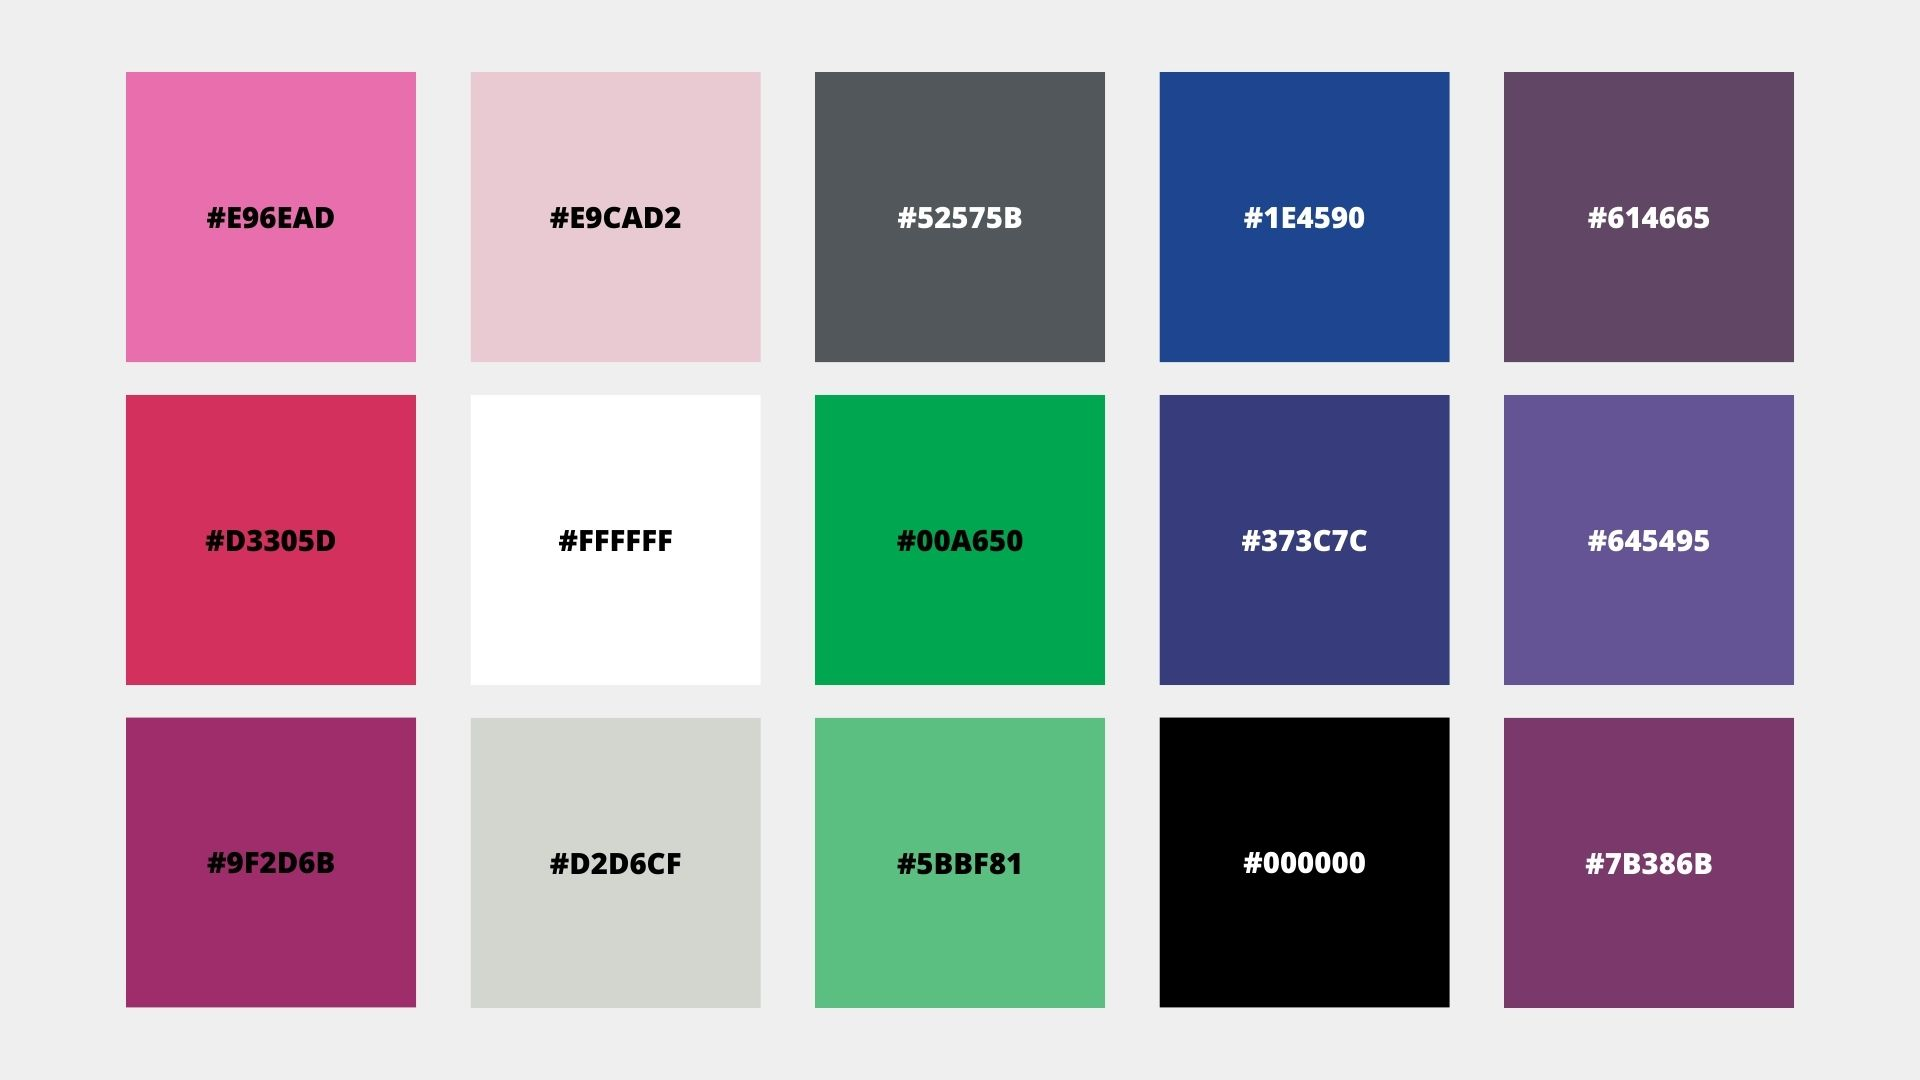
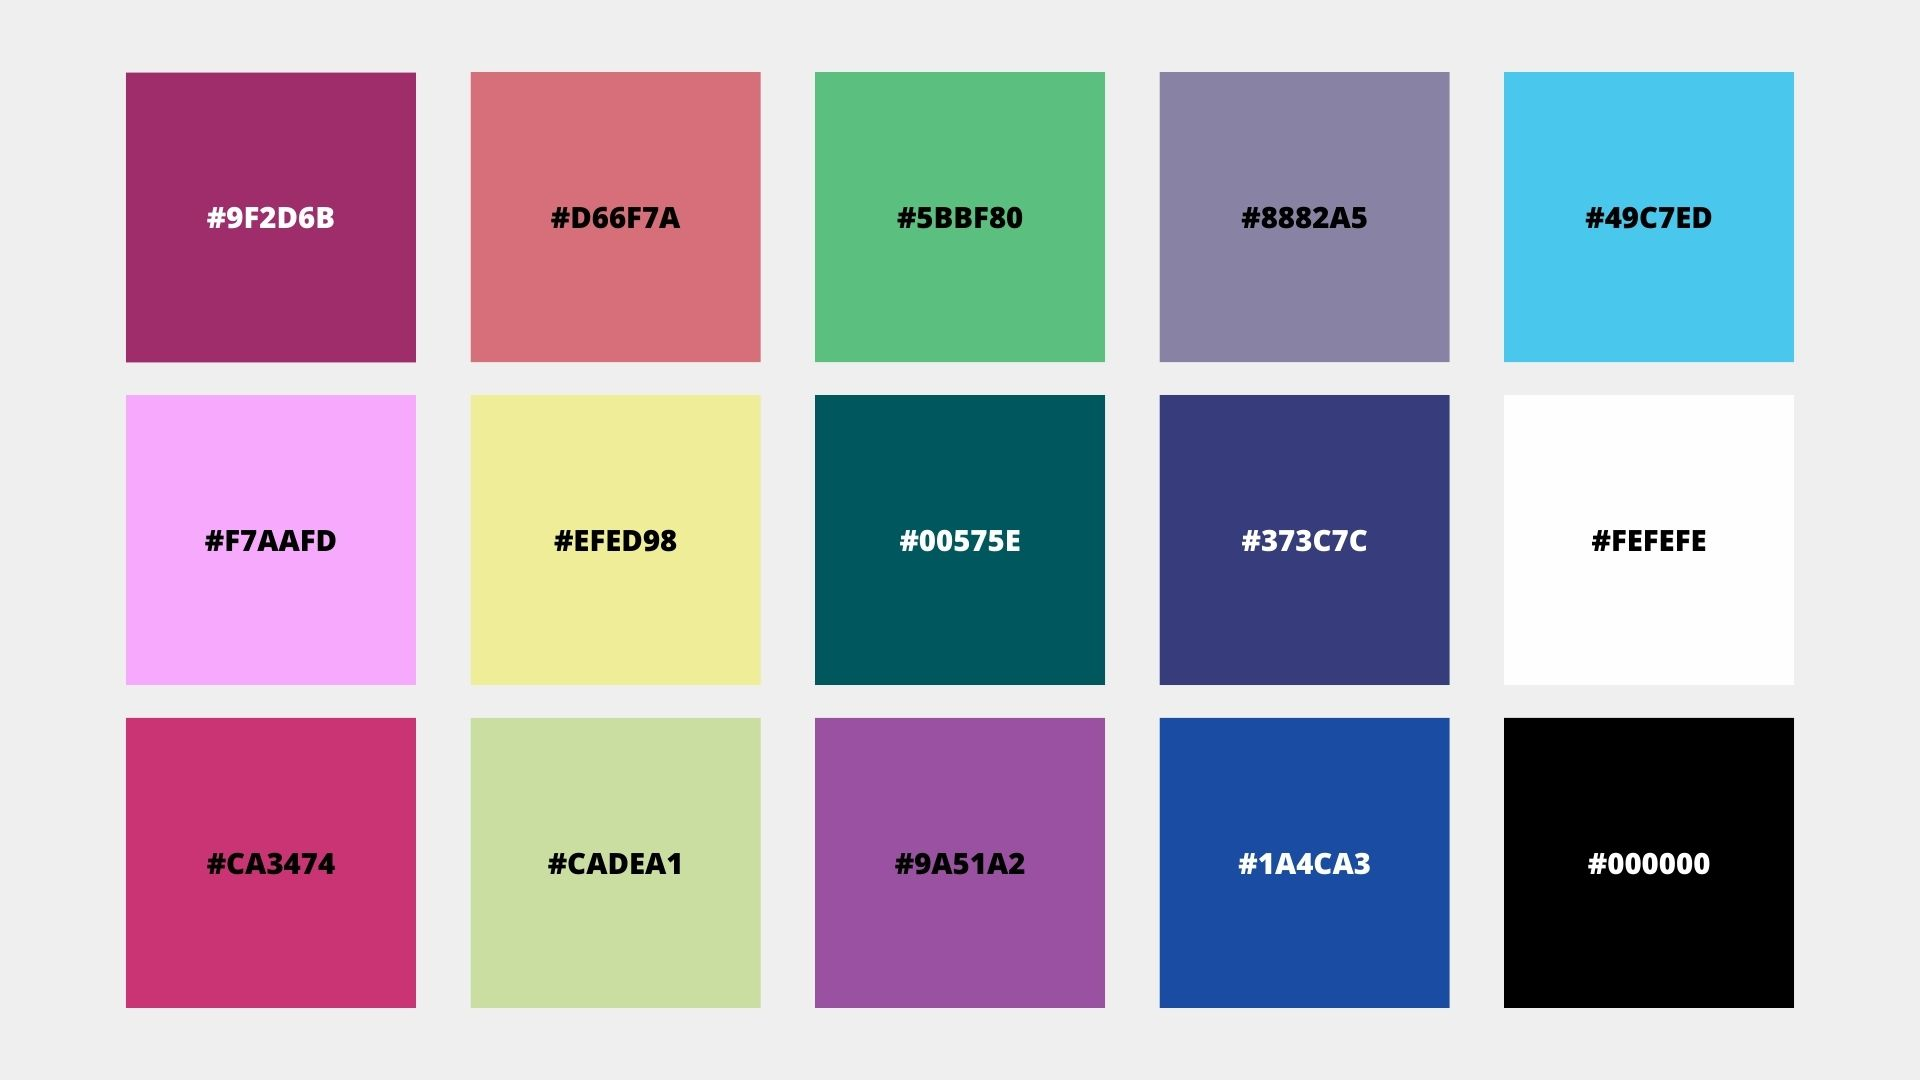
hexadecimal comb

diff --git a/src/app/combinacoes/combinacoes.component.ts b/src/app/combinacoes/combinacoes.component.ts
@@ -15,7 +15,7 @@ export class CombinacoesComponent implements OnInit {
  respostasc: any= {};
  respostasPaletas: any= {};
  textoCombinacoes: string = '';
- corDeFundo: string;
+ corDeFundo: string [] = [];
 
 
  ngOnInit(): void {
@@ -52,11 +52,6 @@ export class CombinacoesComponent implements OnInit {
   localStorage.setItem('respostasc', JSON.stringify(this.respostasc));
   this.exibirTextoEspecifico();
 
-
-
-
-
-
   console.log(this.respostasc);
   console.log(this.respostasPaletas)
 }
@@ -70,6 +65,7 @@ export class CombinacoesComponent implements OnInit {
   trocarPagina(pagina: string) {
     this.paginaAtual = pagina;
   }
+ 
 
 
   exibirTextoEspecifico(): void {
@@ -116,27 +112,162 @@ export class CombinacoesComponent implements OnInit {
         this.textoCombinacoes = `${cor} ${combinacao}`;
       }
     }
+  
     const combinacaoCorFundo = {
-      'laranja ip': 'blue',
-      'rosa ip': 'blue',
-      'roxo ip': 'blue',
-      'amarelo ip': 'blue',
-      'verde ip': 'blue',
-      'azul ip': 'blue',
-      'cinza ip': 'blue',
-      'preto ip': 'blue',
-      'branco ip': 'blue',
-      'vermelho ip': 'blue',
-      'fucsia ip': 'blue',
+      'laranja ip': ['#ce2254', '#006360', '#842739'],
+      'rosa ip': ['#645495', '#fefefe', '#842739'],
+      'roxo ip': ['#ff818d', '853b76', 'ca3476' ],
+      'amarelo ip': ['#d1d6cf', '#ff818d', '#842739'],
+      'verde ip': ['#006360', '9eb83d', '#842739' ],
+      'azul ip': ['#fefefe', '006360', '#5861a4'],
+      'cinza ip': ['#010101', '#ff818d', '#853b76'],
+      'preto ip': ['#009589', '#853b76', '#006360'],
+      'branco ip': ['#853b76', '#010101','#006360' ],
+      'vermelho ip':[ '#ce2254', '#ff818d', '#006360'],
+      'fucsia ip': ['#fefefe', '#ff818d', '#853b76'],
+
+      'laranja ipu': ['#e96ead', '#1e4590', '#614665'],
+      'rosa ipu': ['#7b386b', '#645495', '#e9cad2'],
+      'roxo ipu': ['#e9cad2', '#7b386b', '#d2d6cf'],
+      'amarelo ipu':[ '#d2d6cf', '#e9cad2', '#614665' ],
+      'verde ipu': ['#5bbf81', '#1e4590', '#e96ead'],
+      'azul ipu': ['#9f2d68', '#52575b', '#645495'],
+      'cinza ipu': ['#d3305d', '#000000', '#373c7c'],
+      'preto ipu': ['#d2d6cf','#e96ead', '#614665' ],
+      'branco ipu': ['#d3305d', '#7b386b','#52575b'  ],
+      'vermelho ipu':[ '#d3305d', '#9f2d68','#e96ead'  ],
+      'fucsia ipu': ['#d3305d', '#9f2d68','#e96ead' ],
+
+      'laranja isu': ['#EFED98', '#1A4CA3', '#D66F7A'],
+      'rosa isu': ['#F7AAFD', '#9A51A2', '#CA3474'],
+      'roxo isu': ['#CADEA1', '#00575E', '#373C7C'],
+      'amarelo isu': ['#9F2D6B', '#CA3474', '#1A4CA3'],
+      'verde isu': ['#9F2D6B', '#D66F7A', '#49C7ED'],
+      'azul isu': ['#F7AAFD', '#EFED98', '#8882A5'],
+      'cinza isu': ['#EFED98', '#1A4CA3', '#373C7C'],
+      'preto isu': ['#9F2D6B', '#CA3474', '#00575E'],
+      'branco isu': ['#D66F7A', '#CADEA1', '#9A51A2'],
+      'vermelho isu': ['#EFED98', '#1A4CA3', '#9F2D6B'],
+      'fucsia isu': ['#CA3474', '#00575E', '#9A51A2'],
+
+      'laranja oi': ['#D5C884', '#02A553', '#B85F47'],
+       'rosa oi': ['#8EACA4', '#26BFC4', '#6B8ED2'],
+        'roxo oi': ['#798C6F', '#F7A08C', '#523E97'],
+         'amarelo oi': ['#6B0F1D', '#6B8ED2', '#CADE9F'],
+          'verde oi': ['#B95F93', '#523E97', '#6B0F1D'],
+          'azul oi': ['#F1A9AA', '#523E97', '#735DA6'],
+           'cinza oi': ['#26BFC4', '#F1A9AA', '#8EACA4'],
+            'preto oi': ['#523E97', '#735DA6', '#F1A9AA'],
+             'branco oi': ['#26BFC4', '#523E97', '#02A553'],
+              'vermelho oi': ['#B85F47', '#26BFC4', '#D5C884'],
+               'fucsia oi': ['#6B0F1D', '#26BFC4', '#F7A08C'],
+
+
+      'laranja op': ['#EC4A23', '#C3B72E', '#B85F47'],
+       'rosa op': ['#656F30', '#9D202E', '#B18C33'],
+        'roxo op': ['#52575B', '#373C7C', '#431C53'],
+         'amarelo op': ['#FFB401', '#E7C040', '#C3B72E'],
+          'verde op': ['#029142', '#656F30', '#B18C33'],
+           'azul op': ['#373C7C', '#9D202E', '#EC4A23'],
+            'cinza op': ['#F47820', '#EC4A23', '#52575B'],
+             'preto op': ['#52575B', '#431C53', '#EC4A23'],
+              'branco op': ['#373C7C', '#52575B', '#029142'],
+               'vermelho op': ['#9D202E', '#373C7C', '#FFF9E2'],
+            'fucsia op': ['#E7C040', '#373C7C', '#FAA68E'],
+
+            'laranja oq': ['#903930', '#EFED97', '#339391'],
+            'rosa oq': ['#645495', '#9E202E', '#818C34'],
+            'roxo oq': ['#656F30', '#854522', '#645495'],
+            'amarelo oq': ['#D6C985', '#EFED97', '#339391'],
+            'verde oq': ['#00575E', '#656F30', '#818C34'],
+            'azul oq': ['#339391', '#9E202E', '#903930'],
+            'cinza oq': ['#EBC11C', '#854522', '#827E80'],
+            'preto oq': ['#645495', '#OF9246', '#EBC11C'],
+            'branco oq': ['#339391', '#645495', '#00575E'],
+            'vermelho oq': ['#9E202E', '#339391', '#SEACA4'],
+            'fucsia oq': ['#FAA68E', '#339391', '#D6C985'],
+
+            'laranja pc': ['#6087C8', '#CBC587', '#D6394A'],
+            'rosa pc': ['#F6B7C1', '#B0836A', '#BEACA4'],
+            'roxo pc': ['#A4956C', '#CBC587', '#EAC6B4'],
+            'amarelo pc': ['#98E3CF', '#7564A8', '#D6394A'],
+            'verde pc': ['#F59F8F', '#D6394A', '#CBC587'],
+            'azul pc': ['#CBC587', '#F59F8F', '#98E3CF'],
+            'cinza pc': ['#7564A8', '#6087C8', '#CBC587'],
+            'preto pc': ['#CBC587', '#D6394A', '#F6B7C1'],
+            'branco pc': ['#6087C8', '#7564A8', '#CBC587'],
+            'vermelho pc': ['#D6394A', '#CBC587', '#339391'],
+            'fucsia pc': ['#BEACA4', '#CBC587', '#F59F8F'],
+
+            'laranja pi': ['#db3741', '#fac2ab', '#FDFEF6'],
+            'rosa pi': ['#FAC2AB', '#BEAED7', '#81CDCB'],
+            'roxo pi': ['#BEAED7', '#8882A6', '#E78db8'],
+            'amarelo pi': ['#FDFEF6', '#db3741', '#D3E828'],
+            'verde pi': ['#81CDCB', '#D3E828', '#373C7C'],
+            'azul pi': ['#E78db8', '#D3E828', '#FAC2AB'],
+            'cinza pi': ['#FDFEF6', '#BEAED7', '#81CDCB'],
+            'preto pi': ['#D3E828', '#81CDCB', '#02A552'],
+            'branco pi': ['#FAC2AB', '#02A552', '#db3741'],
+            'vermelho pi': ['#db3741', '#E78db8', '#81CDCB'],
+            'fucsia pi': ['#C83474', '#BEAED7', '#FDFEF6'],
+
+            'laranja pq': ['#d6394a', '#fdb501', '#72473b'],
+            'rosa pq': ['#ae8569', '#e66a3d', '#fdb501'],
+            'roxo pq': ['#339391', '#fb7166', '#fdb501'],
+            'amarelo pq': ['#fdb501', '#fac1ab', '#e66a3d'],
+            'verde pq': ['#339391', '#e66a3d', '#31a84a'],
+            'azul pq': ['#339391', '#fac1ab', '#65408d'],
+            'cinza pq': ['#339391', '#fac1ab', '#d6394a'],
+            'preto pq': ['#339391', '#7d473b', '#ae8569'],
+            'branco pq': ['#339391', '#4e4097', '#db6c7c'],
+            'vermelho pq': ['#ae8569', '#b6253a', '#fb7166'],
+            'fucsia pq': ['#ae8569', '#b6253a', '#fb7166'],
+
+
+          
+
+      'laranja vc': 'blue',
+      'rosa vc': 'blue',
+      'roxo vc': 'blue',
+      'amarelo vc': 'blue',
+      'verde vc': 'blue',
+      'azul vc': 'blue',
       'cinza vc': 'blue',
       'preto vc': 'blue',
-      'branco vc': 'blue'
+      'branco vc': 'blue',
+      'vermelho vc': 'blue',
+      'fucsia vc': 'blue',
 
+      'laranja vp': 'blue',
+      'rosa vp': 'blue',
+      'roxo vp': 'blue',
+      'amarelo vp': 'blue',
+      'verde vp': 'blue',
+      'azul vp': 'blue',
+      'cinza vp': 'blue',
+      'preto vp': 'blue',
+      'branco vp': 'blue',
+      'vermelho vp': 'blue',
+      'fucsia vp': 'blue',
+
+      'laranja vs': 'blue',
+      'rosa vs': 'blue',
+      'roxo vs': 'blue',
+      'amarelo vs': 'blue',
+      'verde vs': 'blue',
+      'azul vs': 'blue',
+      'cinza vs': 'blue',
+      'preto vs': 'blue',
+      'branco vs': 'blue',
+      'vermelho vs': 'blue',
+      'fucsia vs': 'blue',
+     
+     
 
     };
-    this.corDeFundo = combinacaoCorFundo[this.textoCombinacoes] || 'white';
-   
+    this.corDeFundo = combinacaoCorFundo[this.textoCombinacoes] || ['white', 'white', 'white'];
   }
+  
  
  
   }

diff --git a/src/app/quiz/quiz.component.html b/src/app/quiz/quiz.component.html
@@ -51,42 +51,54 @@
     <p>Cor dos olhos: {{ respostas?.respostaOlhos }}</p>
     <p>Cor das veias: {{ respostas?.respostaVeias }}</p>
 
-    <ng-container *ngIf="textoEspecifico === 'Primavera Quente'">
-        <img [src]="'src/assets/primaveraq.jpg'">
-      </ng-container>
-      <ng-container *ngIf="textoEspecifico === 'Primavera Intensa'">
-        <img [src]="'src/assets/primaverai.jpg'">
-      </ng-container>
-      <ng-container *ngIf="textoEspecifico === 'Primavera Clara'">
-        <img [src]="'src/assets/primaverac.jpg'">
-      </ng-container>
-      <ng-container *ngIf="textoEspecifico === 'Outono Quente'">
-        <img [src]="'src/assets/outonoq.jpg'">
-      </ng-container>
-      <ng-container *ngIf="textoEspecifico === 'Outono Profundo'">
-        <img [src]="'src/assets/outonop.jpg'">
-      </ng-container>
-      <ng-container *ngIf="textoEspecifico === 'Outono Intenso'">
-        <img [src]="'src/assets/outonoi.jpg'">
-      </ng-container>
-      <ng-container *ngIf="textoEspecifico === 'Verão Puro'">
-        <img [src]="'src/assets/veraop.jpg'">
-      </ng-container>
-      <ng-container *ngIf="textoEspecifico === 'Verão Claro'">
-        <img [src]="'src/assets/veraoclaro.jpg'">
-      </ng-container>
-      <ng-container *ngIf="textoEspecifico === 'Verão Quente'">
-        <img [src]="'src/assets/veraos.jpg'">
-      </ng-container>
-      <ng-container *ngIf="textoEspecifico === 'Inverno Profundo'">
-        <img [src]="'src/assets/invernoprof.jpg'">
-      </ng-container>
-      <ng-container *ngIf="textoEspecifico === 'Inverno Suave'">
-        <img [src]="'src/assets/invernosuave.jpg'">
-      </ng-container>
-      <ng-container *ngIf="textoEspecifico === 'Inverno Puro'">
-        <img [src]="'src/assets/invernopuro.jpg'">
-      </ng-container>
+    <ng-container *ngIf="textoEspecifico === 'Primavera Quente'" class="imagens">
+      <img [src]="'src/assets/primaveraq.jpg'">
+      <img [src]="'src/assets/dourado.jpg'">
+    </ng-container>
+    <ng-container *ngIf="textoEspecifico === 'Primavera Intensa'">
+      <img [src]="'src/assets/primaverai.jpg'">
+      <img [src]="'src/assets/dourado.jpg'">
+    </ng-container>
+    <ng-container *ngIf="textoEspecifico === 'Primavera Clara'">
+      <img [src]="'src/assets/primaverac.jpg'">
+      <img [src]="'src/assets/prata.jpg'">
+    </ng-container>
+    <ng-container *ngIf="textoEspecifico === 'Outono Quente'">
+      <img [src]="'src/assets/outonoq.jpg'">
+      <img [src]="'src/assets/dourado.jpg'">
+    </ng-container>
+    <ng-container *ngIf="textoEspecifico === 'Outono Profundo'">
+      <img [src]="'src/assets/outonop.jpg'">
+      <img [src]="'src/assets/dourado.jpg'">
+    </ng-container>
+    <ng-container *ngIf="textoEspecifico === 'Outono Intenso'">
+      <img [src]="'src/assets/outonoi.jpg'">
+      <img [src]="'src/assets/prata.jpg'">
+    </ng-container>
+    <ng-container *ngIf="textoEspecifico === 'Verão Puro'">
+      <img [src]="'src/assets/veraop.jpg'">
+      <img [src]="'src/assets/prata.jpg'">
+    </ng-container>
+    <ng-container *ngIf="textoEspecifico === 'Verão Claro'">
+      <img [src]="'src/assets/veraoclaro.jpg'">
+      <img [src]="'src/assets/prata.jpg'">
+    </ng-container>
+    <ng-container *ngIf="textoEspecifico === 'Verão Quente'">
+      <img [src]="'src/assets/veraoq.jpg'">
+      <img [src]="'src/assets/prata.jpg'">
+    </ng-container>
+    <ng-container *ngIf="textoEspecifico === 'Inverno Profundo'">
+      <img [src]="'src/assets/invernoprof.jpg'">
+      <img [src]="'src/assets/prata.jpg'">
+    </ng-container>
+    <ng-container *ngIf="textoEspecifico === 'Inverno Suave'">
+      <img [src]="'src/assets/invernosuave.jpg'">
+      <img [src]="'src/assets/prata.jpg'">
+    </ng-container>
+    <ng-container *ngIf="textoEspecifico === 'Inverno Puro'">
+      <img [src]="'src/assets/invernopuro.jpg'">
+      <img [src]="'src/assets/prata.jpg'">
+    </ng-container>
 
     <button (click)="trocarPagina('quiz')">Voltar para o Quiz</button>
   </div>

diff --git a/src/app/combinacoes/combinacoes.component.html b/src/app/combinacoes/combinacoes.component.html
@@ -94,12 +94,11 @@
           <a href="http://localhost:4200/quiz"><button class="botoes"
             (click)="cadastrarCategorias()">Refazer o Quiz</button></a>
     </div>
-            <div *ngIf="paginaAtual === 'combinacoesResult'">
-              <div [style.background-color]="corDeFundo">
-                  Conteúdo da div
-                </div>
-             
-              </div>
+    <div *ngIf="paginaAtual === 'combinacoesResult'">
+      <div *ngFor="let cor of corDeFundo" [style.background-color]="cor">
+        Conteúdo da div
+      </div>
+    </div>
             <br>
 
 
